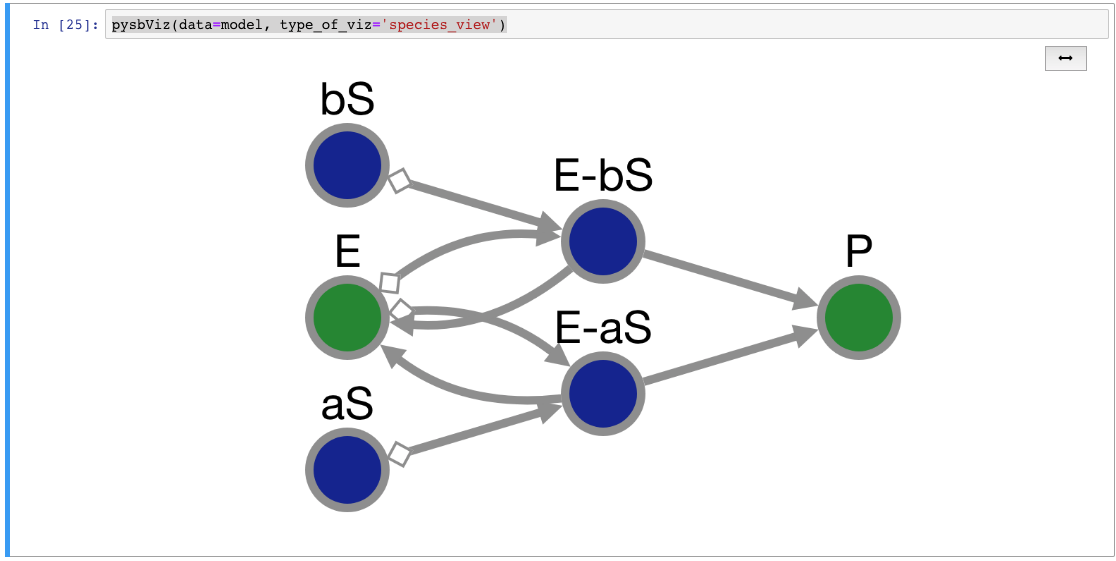
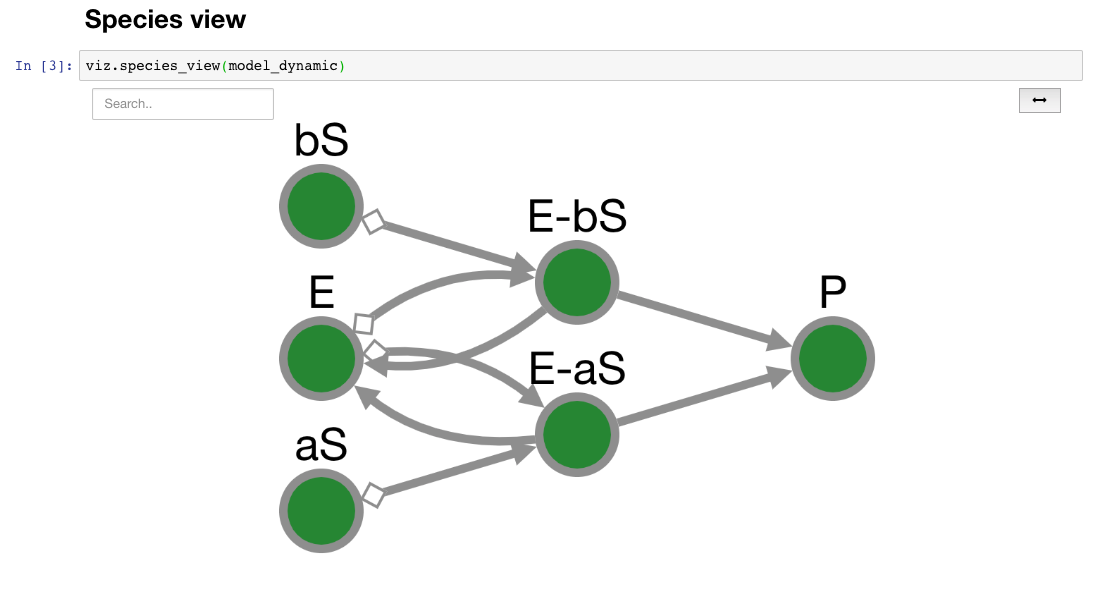
Updated readme with new functions

Changed region(s): [[0.247, 0.1212, 0.8338, 0.9394], [0.0, 0.0, 1.0, 1.0], [0.9882, 0.9697, 1.0, 1.0]]

diff --git a/js/lib/cytoscape.js b/js/lib/cytoscape.js
@@ -125,11 +125,11 @@ var CytoscapeView = widgets.DOMWidgetView.extend({
         var that = this;
 
         // Extract parameters
-        const data = that.model.get('data');
+        // const data = that.model.get('data');
         const format = that.model.get('format');
         let layoutName = that.model.get('layout_name');
 
-        let network = data;
+        let network = that.model.get('data');
         let visualStyle = null;
 
         const vsParam = that.model.get('visual_style');

diff --git a/pysbjupyter/views.py b/pysbjupyter/views.py
@@ -66,4 +66,4 @@ def projected_species_rules_view(model, layout_name='preset'):
 
 
 def species_dynamics_view(simulation, layout_name='preset'):
-    return pysbViz(data=simulation, layout_name=layout_name)
+    return pysbViz(data=simulation, type_of_viz='dynamic_view', layout_name=layout_name)

diff --git a/pysbjupyter/pysbviz.py b/pysbjupyter/pysbviz.py
@@ -3,8 +3,8 @@ from pysbjupyter.model_simresult_to_json import data_to_json
 
 from traitlets import (
     Any,
-    Float, Unicode, Int, Tuple, List, Instance, Bool, Dict, Enum,
-    link, observe, default, validate, TraitError
+    Unicode
+
 )
 
 @widgets.register

diff --git a/docs/conf.py b/docs/conf.py
@@ -48,7 +48,7 @@ extensions = [
     'sphinx.ext.coverage',
     'sphinx.ext.mathjax',
     'jupyter_sphinx.embed_widgets',
-    'sphinx.ext.ifconfig',
+    'sphinx.ext.napoleon',
     'sphinx.ext.viewcode',
     'sphinx.ext.githubpages',
 ]

diff --git a/README.md b/README.md
@@ -26,43 +26,45 @@ $ jupyter nbextension enable --py --sys-prefix pysbjupyter
 ## How to use the widget
 After installing the widget, it can be used by importing it in the notebook. The widget is simple to use with PySB 
 models and [SimulationResult](https://pysb.readthedocs.io/en/stable/modules/simulator.html#pysb.simulator.SimulationResult) 
-objects. There are two types of visualizations that can be performed. 
+objects. pysbjupyter has different functions to visualize PySB models and simulations:
 
-1) Static visualizations. This type of visualization only requires a PySB model. There are different networks
-that can be generated by using the species, rules and reactions defined in a model. These different networks
-can be obtained by passing one of the following strings to the *type_of_viz* parameter of the widget:
-    * Species network: 'species_view'
-    * Species network separated by densely connected nodes: 'communities_view'
-    * Species and reactions bipartite network: 'sp_rxns_bidirectional_view'
-    * Species and rules bipartite network: 'sp_rules_view'
-    * Reactions network: 'projected_view_reactions'
-    * Rules network: 'projected_view_rules'
+| Function                                 | Description                                           |
+|------------------------------------------|-------------------------------------------------------|
+| `species_view(model)`                    | Shows network of interacting species                  |
+| `species_compartments_view(model)`       | Shows network of species in their respective compartments |
+| `communities_view(model)`                | Shows network of species grouped in [communities](https://en.wikipedia.org/wiki/Community_structure) |
+| `sp_rxns_bidirectional_view(model)`      | Shows bipartite network with species and bidirectional rections nodes |
+| `sp_rxns_view(model)`                    | Shows bipartite network with species and unidirectional rections nodes |
+| `sp_rules_view(model)`                   | Shows bipartite network with species and rules nodes  |
+| `sp_rules_functions_view(model)`         | Shows bipartite network with species and rules nodes.<br> Rules nodes are grouped in the functions they come from |
+| `sp_rules_modules_view(model)`           | Shows bipartite network with species and rules nodes.<br> Rules nodes are grouped in the file modules they come from |
+| `projected_species_reactions_view(model)`| Shows network of species projected from the <br> bipartite(species, reactions) graph |
+| `projected_reactions_view(model)`        | Shows network of reactions projected from the <br> bipartite(species, reactions) graph |
+| `projected_rules_view(model)`            | Shows network of rules projected from the <br> bipartite(species, rules) graph |
+| `projected_species_rules_view(model)`    | Shows network of species projected from the <br> bipartite(species, rules) graph |
+| `species_dynamics_view(SimulationResult)`| Shows a species network. Edges size and color are updated <br> according to reaction rate values. Nodes filling <br> are updated according to concentration|
+
+All visualizations have a search button that can be used to find nodes in large networks. This search function displays information about the species label and the type of node (species, reaction, rule, ...). Additionally, there is a fit button to center the nodes into the display area
   
-
+Static Example:
 ```python
-from pysbjupyter import pysbViz
+import pysbjupyter as viz
 from pysbjupyter.pysb_models.mm_two_paths_model import model
 
-pysbViz(data=model, type_of_viz='species_view')
+viz.species_view(model)
 ```
 
 ![species_view](double_enzymatic_species.png)
-
-2) Dynamic visualizations. This type of visualization requires the results of a simulation 
-(a PySB SimulationResult object). This visualization encodes the reaction rate values in the size and color 
-of the edges between the species nodes, and molecular species concentrations relative to the maximum
-concentration attained across all time points are  represented with pie charts. Clicking on edges and 
-nodes shows the absolute value of the reaction rates and the concentrations
-
+Dynamic Example:
 ```python
-from pysbjupyter import pysbViz
+import pysbjupyter as viz
 from pysbjupyter.pysb_models.mm_two_paths_model import model
 from pysb.simulator import ScipyOdeSimulator
 import numpy as np
 
 tspan = np.linspace(0, 1000, 100)
 sim = ScipyOdeSimulator(model, tspan).run()
-pysbViz(data=sim)
+viz.species_dynamics_view(sim)
 ```
 
 ![enzymatic_reaction](pysbViz.gif)
